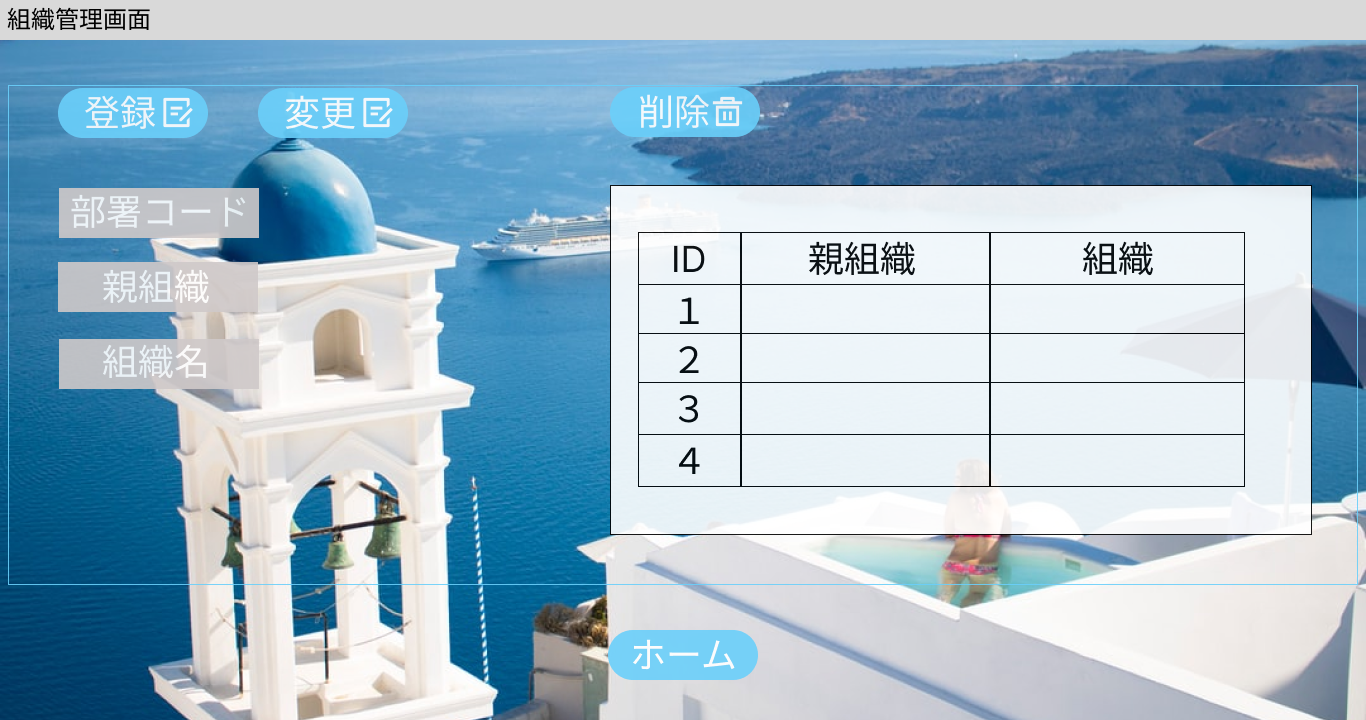
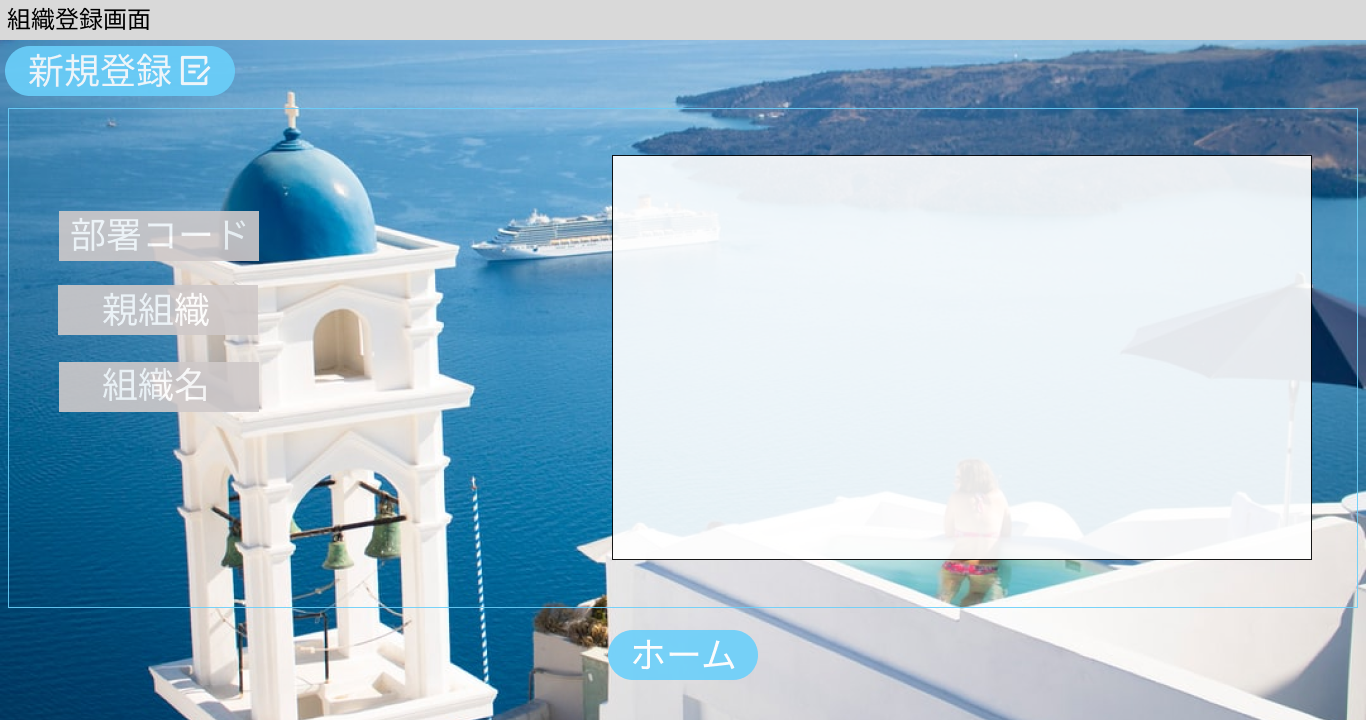
add 編集

diff --git a/ThanksCardClient/Views/OrganizationMg.xaml b/ThanksCardClient/Views/OrganizationMg.xaml
@@ -10,25 +10,31 @@
         <Grid.Background>
             <ImageBrush ImageSource="/Views/組織管理画面.png"/>
         </Grid.Background>
-        <TextBox HorizontalAlignment="Left" Height="50" Margin="259,188,0,0" TextWrapping="Wrap" Text="TextBox" VerticalAlignment="Top" Width="300" FontSize="36" BorderThickness="1,0,0,0" BorderBrush="#FFEFF1F7"/>
-        <Button HorizontalAlignment="Left" Height="50" Margin="59,88,0,0" VerticalAlignment="Top" Width="150" Opacity="0" Cursor="Hand"/>
-        <Button HorizontalAlignment="Left" Height="49" Margin="260,88,0,0" VerticalAlignment="Top" Width="149" Opacity="0" Cursor="Hand"/>
         <Button HorizontalAlignment="Left" Height="49" Margin="610,88,0,0" VerticalAlignment="Top" Width="149" Opacity="0" Cursor="Hand"/>
         <Button  Command="{Binding HomeCommand}" HorizontalAlignment="Left" Height="49" Margin="610,631,0,0" VerticalAlignment="Top" Width="149" Opacity="0" Cursor="Hand"/>
-        <TextBox HorizontalAlignment="Left" Height="50" Margin="258,262,0,0" TextWrapping="Wrap" Text="TextBox" VerticalAlignment="Top" Width="300" FontSize="36" BorderThickness="1,0,0,0" BorderBrush="#FFEFF1F7"/>
-        <TextBox HorizontalAlignment="Left" Height="50" Margin="260,340,0,0" TextWrapping="Wrap" Text="TextBox" VerticalAlignment="Top" Width="300" FontSize="36" BorderThickness="1,0,0,0" BorderBrush="#FFEFF1F7"/>
-        <DataGrid Margin="638,232,88,232" d:ItemsSource="{Binding Organizations}" ScrollViewer.VerticalScrollBarVisibility="Visible" VerticalScrollBarVisibility="Visible" FontSize="24">
+        <DataGrid Margin="58,137,58,153" d:ItemsSource="{Binding Organizations}" ScrollViewer.VerticalScrollBarVisibility="Visible" VerticalScrollBarVisibility="Visible" FontSize="36" Width="1250" Height="430">
             <DataGrid.Columns>
                 <DataGridTextColumn Header="Id" Binding="{Binding Id}" />
                 <DataGridTextColumn Header="コード" Binding="{Binding OrganizationCd}" />
-                <DataGridTextColumn Header="親組織" Binding="{Binding Parent.Name}" />
+                <DataGridTextColumn Header="親組織" Binding="{Binding Parent.OrganizationName}" />
                 <DataGridTextColumn Header="組織名" Binding="{Binding OrganizationName}" />
+                <DataGridTemplateColumn Header="">
+                    <DataGridTemplateColumn.CellTemplate>
+                        <DataTemplate>
+                            <!-- CommandParameter に {Binding} とだけ記述すると、MainWindowViewModel.Departments の要素、つまり Department モデルを指定したことになる。-->
+                            <Button Content="編集" Command="{Binding DataContext.OrganizationEditCommand, RelativeSource={RelativeSource AncestorType=DataGrid}}" CommandParameter="{Binding}" />
+                        </DataTemplate>
+                    </DataGridTemplateColumn.CellTemplate>
+                </DataGridTemplateColumn>
+                <DataGridTemplateColumn Header="">
+                    <DataGridTemplateColumn.CellTemplate>
+                        <DataTemplate>
+                            <Button Content="削除" Command="{Binding DataContext.OrganizationDeleteCommand, RelativeSource={RelativeSource AncestorType=DataGrid}}" CommandParameter="{Binding}" />
+                        </DataTemplate>
+                    </DataGridTemplateColumn.CellTemplate>
+                </DataGridTemplateColumn>
             </DataGrid.Columns>
         </DataGrid>
-        <Button Content="" HorizontalAlignment="Left" Height="81" Margin="174,525,0,0" VerticalAlignment="Top" Width="261">
-            <Button.Background>
-                <ImageBrush/>
-            </Button.Background>
-        </Button>
+        <Button Content="" Command="{Binding OrganizationCreateCommand}" HorizontalAlignment="Left" Height="50" Margin="4,46,0,0" VerticalAlignment="Top" Width="230" Opacity="0.013" Cursor="Hand"/>
     </Grid>
 </UserControl>

diff --git a/ThanksCardClient/Views/Home.xaml b/ThanksCardClient/Views/Home.xaml
@@ -1,6 +1,8 @@
 <UserControl x:Class="ThanksCardClient.Views.Home"
              xmlns="http://schemas.microsoft.com/winfx/2006/xaml/presentation"
              xmlns:x="http://schemas.microsoft.com/winfx/2006/xaml"
+             xmlns:prism="http://prismlibrary.com/"
+             prism:ViewModelLocator.AutoWireViewModel="True" 
              xmlns:mc="http://schemas.openxmlformats.org/markup-compatibility/2006" 
              xmlns:d="http://schemas.microsoft.com/expression/blend/2008" 
              xmlns:local="clr-namespace:ThanksCardClient.Views"
@@ -14,11 +16,11 @@
         <Button Content="Button" HorizontalAlignment="Left" Height="50" Margin="244,554,0,0" VerticalAlignment="Top" Width="150" Opacity="0" Command="{Binding PastListCommand}" Cursor="Hand"/>
         <Button Content="Button" HorizontalAlignment="Left" Height="50" Margin="14,638,0,0" VerticalAlignment="Top" Width="150" Opacity="0.009" Command="{Binding ReceiveBoxCommand}" Cursor="Hand"/>
         <Button Content="Button" HorizontalAlignment="Left" Height="50" Margin="190,638,0,0" VerticalAlignment="Top" Width="150" Opacity="0" Command="{Binding SendBoxCommand}" Cursor="Hand"/>
-        <Button Content="Button" HorizontalAlignment="Left" Height="50" Margin="364,638,0,0" VerticalAlignment="Top" Width="150" Opacity="0" Command="{Binding EmployeeMgCommand}" Cursor="Hand" IsEnabled="{Binding AuthorizedUser.IsAdmin}"/>
-        <Button Content="Button" HorizontalAlignment="Left" Height="50" Margin="539,638,0,0" VerticalAlignment="Top" Width="150" Opacity="0" Command="{Binding OrganizationMgCommand}" Cursor="Hand" IsEnabled="{Binding AuthorizedUser.IsAdmin}"/>
-        <Button Content="" HorizontalAlignment="Left" Height="50" Margin="714,638,0,0" VerticalAlignment="Top" Width="150" Opacity="0" Command="{Binding ClassificationMgCommand}" Cursor="Hand" IsEnabled="{Binding AuthorizedUser.IsAdmin}"/>
+        <Button Content="Button" HorizontalAlignment="Left" Height="50" Margin="364,638,0,0" VerticalAlignment="Top" Width="150" Opacity="0" Command="{Binding EmployeeMgCommand}" Cursor="Hand" IsEnabled="{Binding AuthorizedEmployee.IsAdmin}"/>
+        <Button Content="Button" HorizontalAlignment="Left" Height="50" Margin="539,638,0,0" VerticalAlignment="Top" Width="150" Opacity="0" Command="{Binding OrganizationMgCommand}" Cursor="Hand" IsEnabled="{Binding AuthorizedEmployee.IsAdmin}"/>
+        <Button Content="" HorizontalAlignment="Left" Height="50" Margin="714,638,0,0" VerticalAlignment="Top" Width="150" Opacity="0" Command="{Binding ClassificationMgCommand}" Cursor="Hand" IsEnabled="{Binding AuthorizedEmployee.IsAdmin}"/>
         <Button Content="" HorizontalAlignment="Left" Height="50" Margin="901,638,0,0" VerticalAlignment="Top" Width="150" Opacity="0" Command="{Binding DetailListCommand}" Cursor="Hand"/>
         <Button Content="" HorizontalAlignment="Left" Height="80" Margin="1252,627,0,0" VerticalAlignment="Top" Width="80" Opacity="0" Command="{Binding ManualCommand}" Cursor="Hand"/>
-        <Button Content="" HorizontalAlignment="Left" Height="50" Margin="422,471,0,0" VerticalAlignment="Top" Width="150" Opacity="0" Command="{Binding AggregationCommand}" Cursor="Hand" IsEnabled="{Binding AuthorizedUser.IsAdmin}"/>
+        <Button Content="" HorizontalAlignment="Left" Height="50" Margin="422,471,0,0" VerticalAlignment="Top" Width="150" Opacity="0" Command="{Binding AggregationCommand}" Cursor="Hand" IsEnabled="{Binding AuthorizedEmployee.IsAdmin}"/>
     </Grid>
 </UserControl>

diff --git a/ThanksCardClient/Views/OrganizationEdit.xaml b/ThanksCardClient/Views/OrganizationEdit.xaml
@@ -1,0 +1,23 @@
+<UserControl x:Class="ThanksCardClient.Views.OrganizationEdit"
+             xmlns="http://schemas.microsoft.com/winfx/2006/xaml/presentation"
+             xmlns:x="http://schemas.microsoft.com/winfx/2006/xaml"
+             xmlns:mc="http://schemas.openxmlformats.org/markup-compatibility/2006" 
+             xmlns:d="http://schemas.microsoft.com/expression/blend/2008" 
+             xmlns:local="clr-namespace:ThanksCardClient.Views"
+             mc:Ignorable="d" 
+             d:DesignHeight="720" d:DesignWidth="1366">
+    <Grid>
+        <Grid.RowDefinitions>
+            <RowDefinition Height="13*"/>
+            <RowDefinition Height="7*"/>
+        </Grid.RowDefinitions>
+        <Grid.Background>
+            <ImageBrush ImageSource="/Views/組織変更画面.png"/>
+        </Grid.Background>
+        <TextBox HorizontalAlignment="Left" Height="50" Margin="425,259,0,0" TextWrapping="Wrap" Text="{Binding Organization.OrganizationCd}" VerticalAlignment="Top" Width="250"/>
+        <ComboBox SelectedItem="{Binding Organization.Parent}" ItemsSource="{Binding Departments}" DisplayMemberPath="Name" SelectedValue="{Binding Department.Parent}" HorizontalAlignment="Left" Height="50" Margin="425,333,0,0" VerticalAlignment="Top" Width="400"/>
+        <TextBox HorizontalAlignment="Left" Height="50" Margin="425,410,0,0" TextWrapping="Wrap" Text="{Binding Organization.OrganizationName}" VerticalAlignment="Top" Width="250"/>
+        <Button Content="" Command="{Binding SubmitCommand}" HorizontalAlignment="Center" Height="50" Margin="0,65,0,0" VerticalAlignment="Top" Width="150" Opacity="0" Grid.Row="1"/>
+        <Button Content="" Command="{Binding HomeCommand}" HorizontalAlignment="Center" Height="50" Margin="0,162,0,0" VerticalAlignment="Top" Width="150" Opacity="0" Grid.Row="1"/>
+    </Grid>
+</UserControl>

diff --git a/ThanksCardClient/Views/OrganizationCreate.xaml b/ThanksCardClient/Views/OrganizationCreate.xaml
@@ -1,0 +1,19 @@
+<UserControl x:Class="ThanksCardClient.Views.OrganizationCreate"
+             xmlns="http://schemas.microsoft.com/winfx/2006/xaml/presentation"
+             xmlns:x="http://schemas.microsoft.com/winfx/2006/xaml"
+             xmlns:mc="http://schemas.openxmlformats.org/markup-compatibility/2006" 
+             xmlns:d="http://schemas.microsoft.com/expression/blend/2008" 
+             xmlns:local="clr-namespace:ThanksCardClient.Views"
+             mc:Ignorable="d" 
+             d:DesignHeight="720" d:DesignWidth="1366">
+    <Grid>
+        <Grid.Background>
+            <ImageBrush ImageSource="/Views/組織登録画面.png"/>
+        </Grid.Background>
+        <TextBox HorizontalAlignment="Left" Height="50" Margin="426,258,0,0" TextWrapping="Wrap" Text="{Binding Organization.OrganizationCd}" VerticalAlignment="Top" Width="250" FontSize="36"/>
+        <ComboBox SelectedItem="{Binding Organization.Parent}" ItemsSource="{Binding Departments}" DisplayMemberPath="Name" SelectedValue="{Binding Department.Parent}" HorizontalAlignment="Left" Height="50" Margin="426,333,0,0" VerticalAlignment="Top" Width="400" FontSize="36"/>
+        <TextBox HorizontalAlignment="Left" Height="50" Margin="426,409,0,0" TextWrapping="Wrap" Text="{Binding Organization.OrganizationName}" VerticalAlignment="Top" Width="400" FontSize="36"/>
+        <Button Content="" Command="{Binding SubmitCommand}" HorizontalAlignment="Center" Height="50" Margin="0,533,0,0" VerticalAlignment="Top" Width="150" Opacity="0.002"/>
+        <Button Content="" Command="{Binding HomeCommand}" HorizontalAlignment="Center" Height="50" Margin="0,630,0,0" VerticalAlignment="Top" Width="150" Opacity="0.002"/>
+    </Grid>
+</UserControl>

diff --git a/ThanksCardClient/Views/OrganizationCreate.xaml.cs b/ThanksCardClient/Views/OrganizationCreate.xaml.cs
@@ -1,0 +1,28 @@
+using System;
+using System.Collections.Generic;
+using System.Linq;
+using System.Text;
+using System.Threading.Tasks;
+using System.Windows;
+using System.Windows.Controls;
+using System.Windows.Data;
+using System.Windows.Documents;
+using System.Windows.Input;
+using System.Windows.Media;
+using System.Windows.Media.Imaging;
+using System.Windows.Navigation;
+using System.Windows.Shapes;
+
+namespace ThanksCardClient.Views
+{
+    /// <summary>
+    /// OrganizationCreate.xaml の相互作用ロジック
+    /// </summary>
+    public partial class OrganizationCreate : UserControl
+    {
+        public OrganizationCreate()
+        {
+            InitializeComponent();
+        }
+    }
+}

diff --git a/ThanksCardClient/Views/OrganizationEdit.xaml.cs b/ThanksCardClient/Views/OrganizationEdit.xaml.cs
@@ -1,0 +1,28 @@
+using System;
+using System.Collections.Generic;
+using System.Linq;
+using System.Text;
+using System.Threading.Tasks;
+using System.Windows;
+using System.Windows.Controls;
+using System.Windows.Data;
+using System.Windows.Documents;
+using System.Windows.Input;
+using System.Windows.Media;
+using System.Windows.Media.Imaging;
+using System.Windows.Navigation;
+using System.Windows.Shapes;
+
+namespace ThanksCardClient.Views
+{
+    /// <summary>
+    /// OrganizationEdit.xaml の相互作用ロジック
+    /// </summary>
+    public partial class OrganizationEdit : UserControl
+    {
+        public OrganizationEdit()
+        {
+            InitializeComponent();
+        }
+    }
+}
